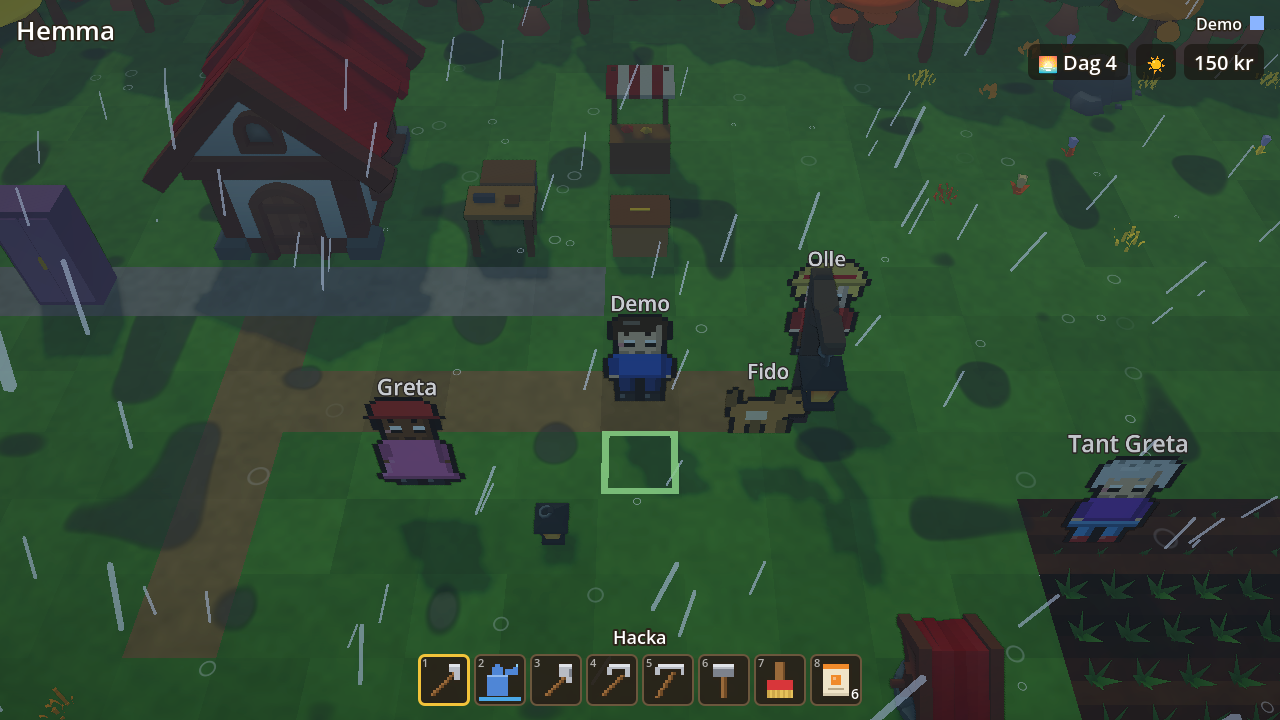
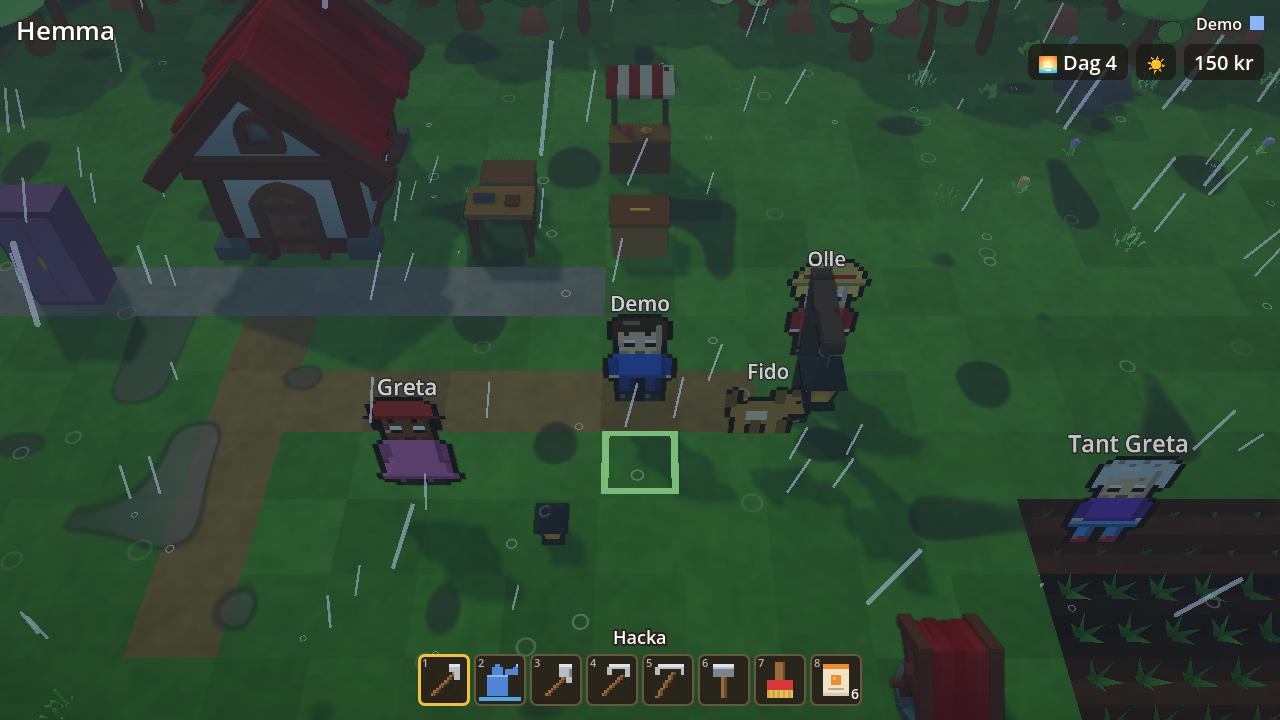
Godot client: the atmosphere and creatures pictures re-taken from the merged head, the merged bench tables in ART.md, HANDOFF line on Låg
Claude-Session: https://claude.ai/code/session_01KTh22rMH5UutKMoSA5XCUG

diff --git a/packages/godot/ART.md b/packages/godot/ART.md
@@ -406,6 +406,26 @@ Village Låg 48.4 → 48.3, Farm Mellan natural 104.8 → 109.1, Village Mellan 
 104.9 → 109.4, Village Mellan everything on 97.5 → 102.8. Draw calls rise by 2–7 (the ambient MultiMeshes, one each), primitives
 by under 1 % (an unrelated rise on Hög in the village is the same ±1 %), Låg's draw calls and primitives are unchanged.
 
+### Measured after merging the atmosphere pass, the art pass and creatures in 3D with M7a and M7b
+
+`--bench=<preset> --scene=farm`, 1280×720, sandbox only (software GL under Xvfb: compare rows, not absolute numbers). "main" is
+origin/main at M7b (670df30), "merged" is this branch. Average frame ms; Låg is the mean of two runs:
+
+| Farm, Compatibility (OpenGL) | main | merged | primitives main → merged |
+| --- | --- | --- | --- |
+| Låg | 30.0 | 52.3 | 34 000 → 93 400 |
+| Mellan | 67.2 | 102.2 | 86 700 → 244 000 |
+| Hög | 81.4 | 120.2 | 141 200 → 304 700 |
+| Farm, Forward+ (lavapipe) | main | merged | |
+| Låg | 75.8 | 105.3 | 34 100 → 95 000 |
+| Mellan | 133.5 | 133.3 | 89 400 → 250 300 |
+
+Draw calls are the same (91 → 92 on Låg). **Låg is slower than main's, and it is the art pass's models, not the atmosphere pass:**
+the branch before the merge (5a259fb) already draws 91 000 primitives on Låg and 45.7 ms; the pack trees, bushes and grass
+(KayKit Forest, Kenney Nature Kit) have three times the triangles of the generated meshes they replaced. The merge itself adds
+about 2 ms on Låg (M7a's wind at level 1 is the old sway; the grade is one pass). On Forward+ the Mellan frame is capped by the
+swapchain in lavapipe, so it reads equal. Mellan pays the one full-screen grade pass on top of M7a's budgets.
+
 ## The fight on screen (M3b)
 
 - **Telegraphs** are flat shapes 4.5 cm over the floor: a dim red base in the zone's full size, a brighter fill that

diff --git a/HANDOFF.md b/HANDOFF.md
@@ -54,7 +54,8 @@ This file is only what the next agent needs: state, decisions, how the work is r
   leaves, chimney smoke, dawn mist, window light); dropped from the atmosphere pass as duplicates: its fireflies, chimney
   smoke, autumn leaves in the trees, dawn mist, the window beams and the pond at night, plus its old wind sway and its
   fog banks (fog weather now drives M7a's mist at a higher alpha). Kept: the day/night grade, screen grade, lamp pools,
-  the hero's lantern, rain/snow/hail/puddles/cloud shadows and dew. Details in `DESIGN.md` and `ART.md`.
+  the hero's lantern, rain/snow/hail/puddles/cloud shadows and dew. Details in `DESIGN.md` and `ART.md`. PR 21 (M7b) is merged in too. Open: the pack models draw ~3x the primitives of the generated ones, so
+  Låg is ~1.7x slower than main's in the sandbox bench (the art pass, not the merge; `ART.md` "Measured after merging").
 - **The leftovers below were fixed in PR 16** except the waypoint tolerance and the voice bot using bare sockets.
 - **Small things left over from PR 13 and PR 14, for one tidy-up PR** (none blocks anything): the pick screen shows
   "Välj en runa!" twice, offset (the server's `reward` banner over the pick's own title; `run_pick.gd` / `hud.gd`);
